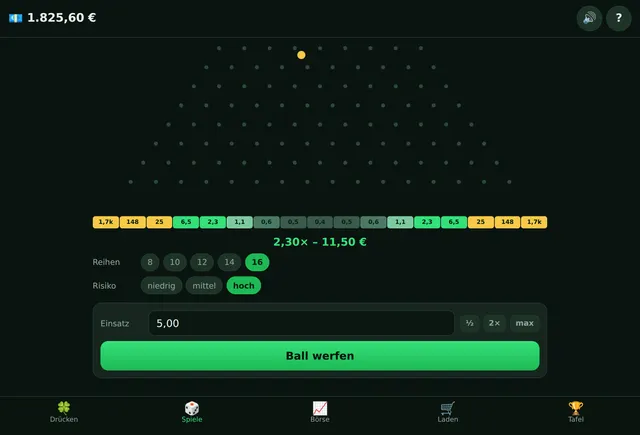
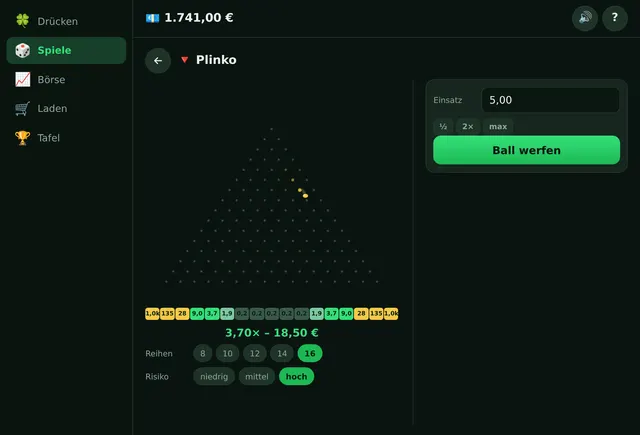
Glueckspilz: Quote 97 %, angenehme Zahlen, Fallobst (Ordner-Repo + Kachel + Browserprobe)
Der Ordner-Commit steht in glueckspilz/. Hier daneben:

- spiele/index.html + spiele/texte.js: die Kachel sagt jetzt elf Spiele und
  knapp unter 97 % statt neun und 99 %, mit Keno und Fallobst in der Liste.
- spiele/bilder/glueckspilz-spiel.webp: neu aufgenommen. Auf dem alten Bild
  stand die alte Plinkotafel; auf dem neuen steht 1,0k · 135 · 28 · 9,0 · 3,7
  · 1,9 · 0,2, dazu die Spur des fallenden Balls und die leuchtenden Nägel.
- werkzeug/pruefe-glueckspilz.mjs: G04 zählt elf Kacheln, G15 läuft die
  Scroll-Runde auch für Fallobst, G20 kennt die neue Walze, neu G22-G24.
- doku/inhalte.md: die Quote im Rechtsteil steht auf knapp unter 97 %, mit
  dem Grund daneben - eine Quote, die auf dem Bildschirm steht und nicht
  stimmt, ist schlimmer als eine niedrige.
- RISIKEN-TODO.md: vierter offener Punkt. probe.js rechnet jede Tafel nach,
  aber nichts rechnet nach, was aus Tafel und Glücksbringern zusammen wird -
  gefunden hat die 142 % ein Blick in eine Kontodatei, kein Test.

Claude-Session: https://claude.ai/code/session_01LXMvi63S56cLgz8f1Xx4JK

diff --git a/spiele/texte.js b/spiele/texte.js
@@ -386,13 +386,13 @@ export const WOERTER = {
     "k.schafstall.s6": "4. turdan sonra iki koyun birlikte koşar, 6'dan sonra kayalar çıkar, 8'den sonra kurt gelir, 10'dan sonra kenar çitle kapanır, 12'den sonra yolda bir fil durur – iki kere iki hücre büyüklüğünde.",
     "k.schafstall.s7": "Hepsi ağılda: puanlar tura, artan hamlelere ve hıza göre, üstüne üç yıldıza kadar. Sonraki tur daha büyük ve daha kalabalıktır.",
     // --- Glückspilz ---
-    "k.glueckspilz.kurz": "Para yalnızca bir düğmeden doğan bir oyun parası kumarhanesi: her basışta bir kuruş. Dokuz şans oyunu ve uydurma bir borsa onu geri alıyor.",
-    "k.glueckspilz.lang": "Burada gerçek para dönmez – yatırma yok, çekme yok, alıp götürülecek hiçbir şey yok. Her şey büyük yeşil bir düğmeyle başlar: bir basış, bir kuruş. Hızlı basan hız çubuğunu yukarıda tutar ve daha çok alır; dükkânda her biri bir öncekinin üç katına mal olan basamaklar vardır, ki düğme asla gereksiz olmasın. Gece boyunca küçük bir tutar birikir. Kazanılan, dokuz şans oyununda yakılabilir – Plinko, Mines, Crash, Dice, Limbo, Ejderha Kulesi, Flip, Elmaslar, Bars – ya da fiyatları eğilimler, sakin ve çalkantılı dönemler ve haberler tanıyan sekiz uydurma şirketin borsasında. Orada kaldıraç yüz katına kadar ayarlanır; değer sıfıra düşerse, sen bakmıyorken bile pozisyon gider. Ödeme oranı her yerde %99 ve her atış sonradan doğrulanabilir: sunucu tohumunun özeti önceden orada durur. Ad ve parolayla bir hesap bunun parçasıdır – onsuz kayıt, tarayıcı bir sonraki temizlikte silinirdi.",
+    "k.glueckspilz.kurz": "Para yalnızca bir düğmeden doğan bir oyun parası kumarhanesi: her basışta bir kuruş. On bir şans oyunu ve uydurma bir borsa onu geri alıyor.",
+    "k.glueckspilz.lang": "Burada gerçek para dönmez – yatırma yok, çekme yok, alıp götürülecek hiçbir şey yok. Her şey büyük yeşil bir düğmeyle başlar: bir basış, bir kuruş. Hızlı basan hız çubuğunu yukarıda tutar ve daha çok alır; dükkânda her biri bir öncekinin üç katına mal olan basamaklar vardır, ki düğme asla gereksiz olmasın. Gece boyunca küçük bir tutar birikir. Kazanılan, on bir şans oyununda yakılabilir – Plinko, Mines, Crash, Dice, Limbo, Ejderha Kulesi, Flip, Elmaslar, Bars, Keno, Düşen Meyve – ya da fiyatları eğilimler, sakin ve çalkantılı dönemler ve haberler tanıyan sekiz uydurma şirketin borsasında. Orada kaldıraç yüz katına kadar ayarlanır; değer sıfıra düşerse, sen bakmıyorken bile pozisyon gider. Ödeme oranı her yerde %97'nin biraz altında ve her atış sonradan doğrulanabilir: sunucu tohumunun özeti önceden orada durur. Ad ve parolayla bir hesap bunun parçasıdır – onsuz kayıt, tarayıcı bir sonraki temizlikte silinirdi.",
     "k.glueckspilz.s1": "Hesap aç: ad ve parola, başka bir şey değil – e-posta yok, kurtarma yok. <b>18 yaş üstü</b>, ve içindeki her şey oyun parası.",
     "k.glueckspilz.s2": "Düğme tek kaynaktır: bir basış, bir kuruş. Hızlı basmak hız çubuğunu doldurur ve iki buçuk katına kadar öder.",
     "k.glueckspilz.s3": "Dükkânda beş basamak bekler: daha iyi bir başparmak, senin yerine basan bir cin, hız çubuğu için ateş hırsı, gece için bir çorap kumbara ve uğurlar için bir yonca tarhı. Her basamak öncekinin aşağı yukarı üç katı tutar.",
     "k.glueckspilz.s4": "Arada bir ekranda bir uğur uçar. Dokun: 🍀 ve 💰 hemen öder, ⚡ basış değerini üçe katlar, ⭐ her kazancı yarı yarıya artırır, 🎁 üç bedava bahis verir.",
-    "k.glueckspilz.s5": "Dokuz oyun parayı geri alır: Plinko, Mines, Crash, Dice, Limbo, Ejderha Kulesi, Flip, Elmaslar, Bars. Her yerde ortalama 100 avronun 99'u geri döner – yani uzun vadede kaybedilir, ve bir kumarhane tam olarak böyle kurulur.",
+    "k.glueckspilz.s5": "On bir oyun parayı geri alır: Plinko, Mines, Crash, Dice, Limbo, Ejderha Kulesi, Flip, Elmaslar, Bars, Keno, Düşen Meyve. Her yerde ortalama 100 avronun 97'ye yakını geri döner – yani uzun vadede kaybedilir, ve bir kumarhane tam olarak böyle kurulur.",
     "k.glueckspilz.s6": "Borsada sekiz uydurma şirket var. Fiyatlar yazı tura değil: eğilimler, sakin ve çalkantılı dönemler, haberler ve hepsini birden kımıldatan bir piyasa var. Kaldıraç 100'e kadar çıkar – ve değer sıfıra düşerse, sen bakmıyorken bile pozisyon gider.",
     "k.glueckspilz.s7": "Her atış doğrulanabilir: „Tablo“ altında, sen oynamadan önce sunucu tohumunun özeti durur. Aç, hesapla, yeni tohum al.",
   },
@@ -756,13 +756,13 @@ export const WOERTER = {
     "k.schafstall.s6": "From round 4 two sheep run as a team, from 6 there are rocks about, from 8 the wolf turns up, from 10 the edge is fenced in, from 12 an elephant stands in the way – two by two cells in size.",
     "k.schafstall.s7": "All in the pen: points by round, moves saved and speed, plus up to three stars. The next round is bigger and fuller.",
     // --- Glückspilz ---
-    "k.glueckspilz.kurz": "A play-money casino where money only comes from one button: one cent per press. Nine games of chance and an invented stock market take it back off you.",
-    "k.glueckspilz.lang": "No real money runs here – there is no deposit, no withdrawal and nothing you could take with you. Everything starts at one big green button: one press, one cent. Press fast and the streak bar stays up and pays more; the shop sells levels whose price triples with each one, so the button never becomes pointless. Overnight a small amount piles up. What you earn can then be gambled away in nine games – Plinko, Mines, Crash, Dice, Limbo, Dragon Tower, Flip, Diamonds, Bars – or on a market of eight invented firms whose prices know trends, calm and wild stretches and news. There the leverage goes up to a hundred; if the value hits zero the position is gone, even while nobody is looking. The payout rate is 99 % everywhere, and every single roll can be verified afterwards: the hash of the server seed is shown beforehand. An account with a name and a password is part of it – without one the save would be gone with the next cleared browser.",
+    "k.glueckspilz.kurz": "A play-money casino where money only comes from one button: one cent per press. Eleven games of chance and an invented stock market take it back off you.",
+    "k.glueckspilz.lang": "No real money runs here – there is no deposit, no withdrawal and nothing you could take with you. Everything starts at one big green button: one press, one cent. Press fast and the streak bar stays up and pays more; the shop sells levels whose price triples with each one, so the button never becomes pointless. Overnight a small amount piles up. What you earn can then be gambled away in eleven games – Plinko, Mines, Crash, Dice, Limbo, Dragon Tower, Flip, Diamonds, Bars, Keno, Windfall – or on a market of eight invented firms whose prices know trends, calm and wild stretches and news. There the leverage goes up to a hundred; if the value hits zero the position is gone, even while nobody is looking. The payout rate sits just under 97 % everywhere, and every single roll can be verified afterwards: the hash of the server seed is shown beforehand. An account with a name and a password is part of it – without one the save would be gone with the next cleared browser.",
     "k.glueckspilz.s1": "Create an account: name and password, nothing else – no e-mail, no recovery. <b>18+</b>, and everything inside is play money.",
     "k.glueckspilz.s2": "The button is the only source: one press, one cent. Pressing fast fills the streak bar and pays up to two and a half times as much.",
     "k.glueckspilz.s3": "Five levels wait in the shop: a better thumb, a brownie that presses along, burning zeal for the streak bar, a sock drawer for the night and a clover patch for the charms. Each level costs roughly three times the last.",
     "k.glueckspilz.s4": "Now and then a charm flies across the screen. Tap it: 🍀 and 💰 pay out at once, ⚡ triples the press value, ⭐ raises every win by half, 🎁 gives three free bets.",
-    "k.glueckspilz.s5": "Nine games take the money back: Plinko, Mines, Crash, Dice, Limbo, Dragon Tower, Flip, Diamonds, Bars. Everywhere 99 of every 100 euros come back on average – so in the long run you lose, and that is exactly how a casino is built.",
+    "k.glueckspilz.s5": "Eleven games take the money back: Plinko, Mines, Crash, Dice, Limbo, Dragon Tower, Flip, Diamonds, Bars, Keno, Windfall. Everywhere just under 97 of every 100 euros come back on average – so in the long run you lose, and that is exactly how a casino is built.",
     "k.glueckspilz.s6": "The market has eight invented firms. The prices are no coin flip: there are trends, calm and wild stretches, news, and a market that moves everything at once. Leverage goes up to 100 – and if the value hits zero the position is gone, even while you are not looking.",
     "k.glueckspilz.s7": "Every roll can be verified: under „Board“ the hash of the server seed is shown before you play. Reveal it, recompute, get a new seed.",
   },

diff --git a/spiele/index.html b/spiele/index.html
@@ -1632,8 +1632,8 @@ footer a { color: inherit; }
         <span class="icon" aria-hidden="true">🍀</span>
         <h3>Glückspilz</h3>
       </div>
-      <p class="kurz" data-t-html="k.glueckspilz.kurz">Ein Spielgeld-Kasino, in dem Geld nur an einem Knopf entsteht: ein Cent je Druck. Neun Glücksspiele und eine erfundene Börse nehmen es dir wieder ab.</p>
-      <p class="lang" data-t-html="k.glueckspilz.lang">Hier läuft kein echtes Geld – es gibt keine Einzahlung, keine Auszahlung und nichts, was man mitnehmen könnte. Alles fängt an einem großen grünen Knopf an: ein Druck, ein Cent. Wer schnell drückt, hält die Schwungleiste oben und bekommt mehr; im Laden gibt es Stufen zu kaufen, deren Preis sich mit jeder verdreifacht, damit der Knopf nie überflüssig wird. Über Nacht sammelt sich ein kleiner Betrag an. Das Verdiente kann man dann in neun Glücksspielen verzocken – Plinko, Mines, Crash, Dice, Limbo, Drachenturm, Flip, Diamanten, Bars – oder an einer Börse mit acht erfundenen Firmen, deren Kurse Trends, ruhige und wilde Phasen und Nachrichten kennen. Dort lässt sich der Hebel bis auf das Hundertfache stellen; fällt der Wert auf null, ist die Position weg, auch wenn gerade niemand hinsieht. Die Auszahlungsquote ist überall 99 %, und jeder einzelne Wurf lässt sich hinterher nachrechnen: der Hash der Server-Saat steht vorher da. Ein Konto mit Namen und Passwort gehört dazu – ohne wäre der Spielstand nach dem nächsten geleerten Browser weg.</p>
+      <p class="kurz" data-t-html="k.glueckspilz.kurz">Ein Spielgeld-Kasino, in dem Geld nur an einem Knopf entsteht: ein Cent je Druck. Elf Glücksspiele und eine erfundene Börse nehmen es dir wieder ab.</p>
+      <p class="lang" data-t-html="k.glueckspilz.lang">Hier läuft kein echtes Geld – es gibt keine Einzahlung, keine Auszahlung und nichts, was man mitnehmen könnte. Alles fängt an einem großen grünen Knopf an: ein Druck, ein Cent. Wer schnell drückt, hält die Schwungleiste oben und bekommt mehr; im Laden gibt es Stufen zu kaufen, deren Preis sich mit jeder verdreifacht, damit der Knopf nie überflüssig wird. Über Nacht sammelt sich ein kleiner Betrag an. Das Verdiente kann man dann in elf Glücksspielen verzocken – Plinko, Mines, Crash, Dice, Limbo, Drachenturm, Flip, Diamanten, Bars, Keno, Fallobst – oder an einer Börse mit acht erfundenen Firmen, deren Kurse Trends, ruhige und wilde Phasen und Nachrichten kennen. Dort lässt sich der Hebel bis auf das Hundertfache stellen; fällt der Wert auf null, ist die Position weg, auch wenn gerade niemand hinsieht. Die Auszahlungsquote liegt überall knapp unter 97 %, und jeder einzelne Wurf lässt sich hinterher nachrechnen: der Hash der Server-Saat steht vorher da. Ein Konto mit Namen und Passwort gehört dazu – ohne wäre der Spielstand nach dem nächsten geleerten Browser weg.</p>
       <div class="meta">
         <span class="dot" data-status></span>
         <span class="tag" data-t-html="tag.allein">allein</span>
@@ -1647,7 +1647,7 @@ footer a { color: inherit; }
         <li data-t-html="k.glueckspilz.s2">Der Knopf ist die einzige Quelle: ein Druck, ein Cent. Schnelles Drücken füllt die Schwungleiste und zahlt bis zum Zweieinhalbfachen.</li>
         <li data-t-html="k.glueckspilz.s3">Im Laden warten fünf Stufen: ein besserer Daumen, ein Heinzelmännchen, das mitdrückt, Feuereifer für die Schwungleiste, ein Sparstrumpf für die Nacht und ein Kleebeet für die Glücksbringer. Jede Stufe kostet gut das Dreifache der vorigen.</li>
         <li data-t-html="k.glueckspilz.s4">Ab und zu fliegt ein Glücksbringer durchs Bild. Antippen: 🍀 und 💰 zahlen sofort, ⚡ verdreifacht den Klickwert, ⭐ hebt jeden Gewinn um die Hälfte, 🎁 gibt drei Freiwetten.</li>
-        <li data-t-html="k.glueckspilz.s5">Neun Spiele nehmen das Geld wieder: Plinko, Mines, Crash, Dice, Limbo, Drachenturm, Flip, Diamanten, Bars. Überall kommen im Mittel 99 von 100 Euro zurück – auf Dauer verliert man also, und genau so ist ein Kasino gebaut.</li>
+        <li data-t-html="k.glueckspilz.s5">Elf Spiele nehmen das Geld wieder: Plinko, Mines, Crash, Dice, Limbo, Drachenturm, Flip, Diamanten, Bars, Keno, Fallobst. Überall kommen im Mittel knapp 97 von 100 Euro zurück – auf Dauer verliert man also, und genau so ist ein Kasino gebaut.</li>
         <li data-t-html="k.glueckspilz.s6">An der Börse stehen acht erfundene Firmen. Die Kurse sind kein Münzwurf: es gibt Trends, ruhige und wilde Phasen, Nachrichten und einen Markt, der alle zugleich bewegt. Der Hebel geht bis 100 – und fällt der Wert auf null, ist die Position weg, auch wenn du gerade nicht hinsiehst.</li>
         <li data-t-html="k.glueckspilz.s7">Jeder Wurf lässt sich nachrechnen: unter „Tafel“ steht der Hash der Server-Saat, bevor du spielst. Aufdecken, nachrechnen, neue Saat.</li>
     </template>

diff --git a/doku/inhalte.md b/doku/inhalte.md
@@ -57,7 +57,7 @@ hineingeht, ist es Glücksspiel (§ 284 StGB / GlüStV) und erlaubnispflichtig.
 ## Glückspilz (03.09.2026)
 
 Seit dem 03.09.2026 gibt es genau ein Spiel, das diesen Satz ernst nimmt:
-**`/glueckspilz/`**, ein Spielgeld-Kasino mit neun Glücksspielen und einer
+**`/glueckspilz/`**, ein Spielgeld-Kasino mit elf Glücksspielen und einer
 erfundenen Börse. Es ist der Grenzfall, für den der Satz geschrieben wurde,
 deshalb steht hier, wie die Grenze gezogen ist:
 
@@ -69,9 +69,12 @@ deshalb steht hier, wie die Grenze gezogen ist:
   Währung („Taler“) würde die Mechanik verschleiern, um die es geht. Dafür
   steht auf der Anmeldeseite, in der Hilfe und auf der Kachel derselbe Satz –
   hier läuft kein echtes Geld.
-- **Die Auszahlungsquote steht offen da: 99 %.** Das Haus gewinnt, und das
-  Spiel sagt es. Es sagt auch, was das heißt: auf Dauer verliert man, und
-  genau so ist ein Kasino gebaut.
+- **Die Auszahlungsquote steht offen da: knapp unter 97 %.** Das Haus gewinnt,
+  und das Spiel sagt es. Es sagt auch, was das heißt: auf Dauer verliert man,
+  und genau so ist ein Kasino gebaut. Bis zum 04.09.2026 stand dort 99 %, und
+  gemessen zahlte das Haus wegen zu häufiger Glücksbringer 142 % aus – eine
+  Quote, die auf dem Bildschirm steht und nicht stimmt, ist schlimmer als
+  eine niedrige. Was daran geändert wurde, steht in `glueckspilz/README.md`.
 - **Jeder Wurf ist nachrechenbar.** Der Hash der Server-Saat steht vorher da;
   wer sie aufdeckt, kann jede alte Runde nachrechnen. Ein Spielgeldhaus, das
   schummelt, wäre nicht harmloser, sondern nur schlechter.

diff --git a/doku/pruefen.md b/doku/pruefen.md
@@ -72,7 +72,7 @@ KONTEN_DIR=/tmp/gp-probe START_CENT=500000 RUHE_MS=1200 SICHERN_MS=800 \
   OFFLINE_MAL=20000 WEG_AB_MS=1500 PORT=8188 HOST=127.0.0.1 \
   deno run --allow-net --allow-read --allow-write=/tmp/gp-probe --allow-env --allow-sys server.js &
 WS_URL=ws://127.0.0.1:8188/ws deno task probe          # P0-P9, M1-M5, S1-S11
-cd /root/werkzeug-screenshots && node pruefe-glueckspilz.mjs   # G01-G13
+cd /root/werkzeug-screenshots && node pruefe-glueckspilz.mjs   # G01-G24
 ss -tlnp | grep ':8188 '   # danach ueber den Port beenden, nie per pkill
 ```
 
